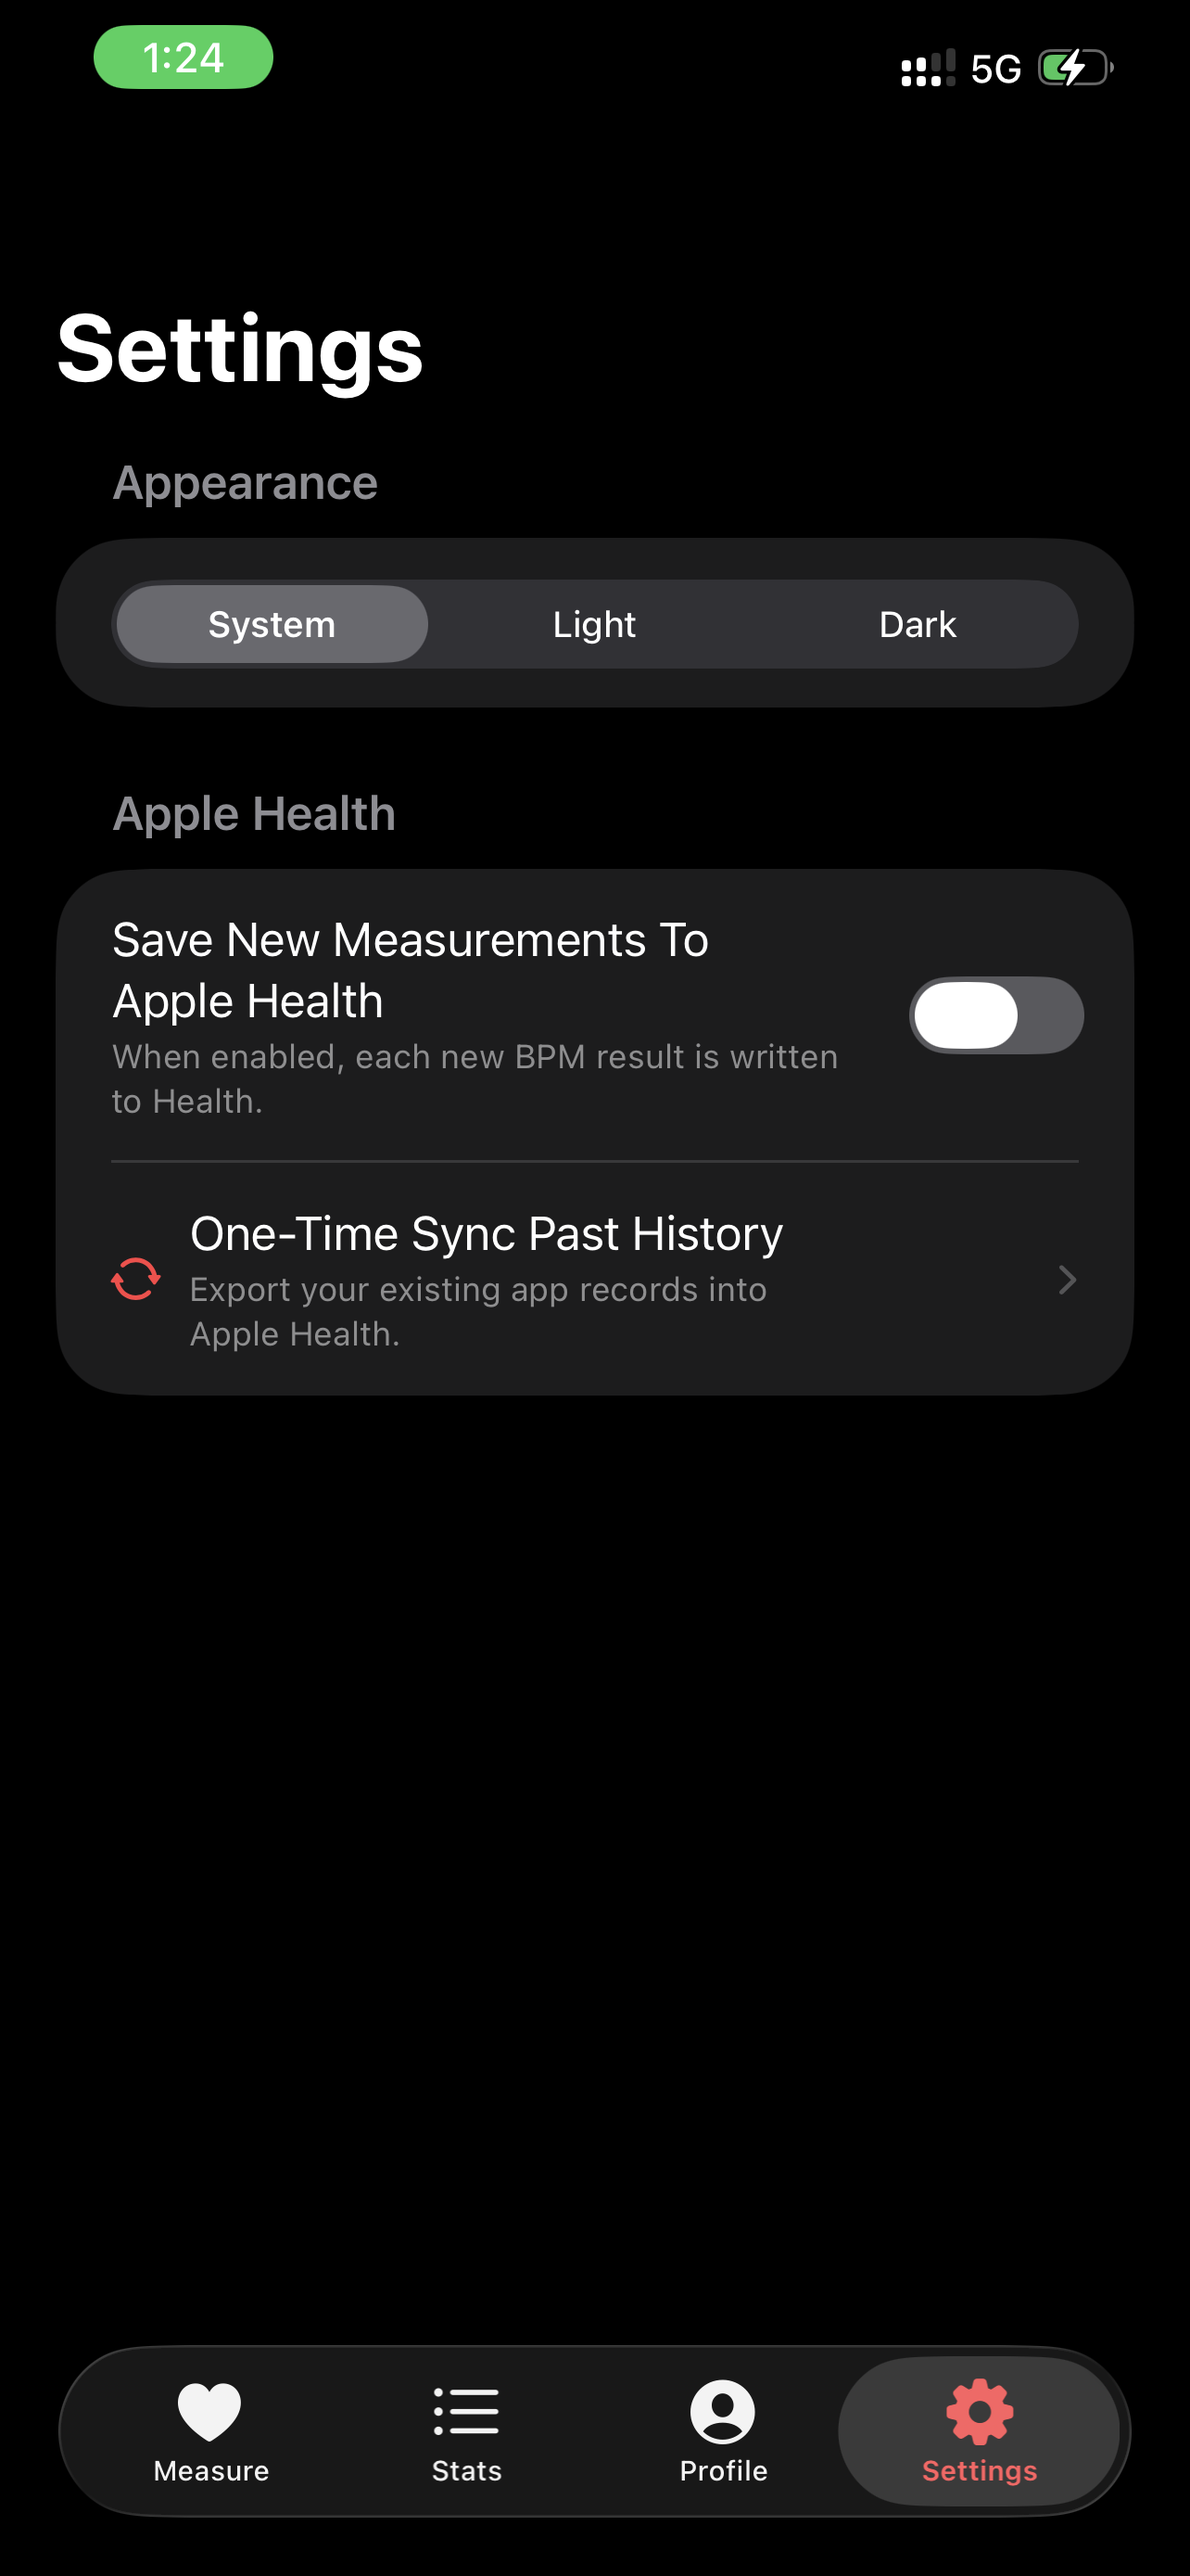
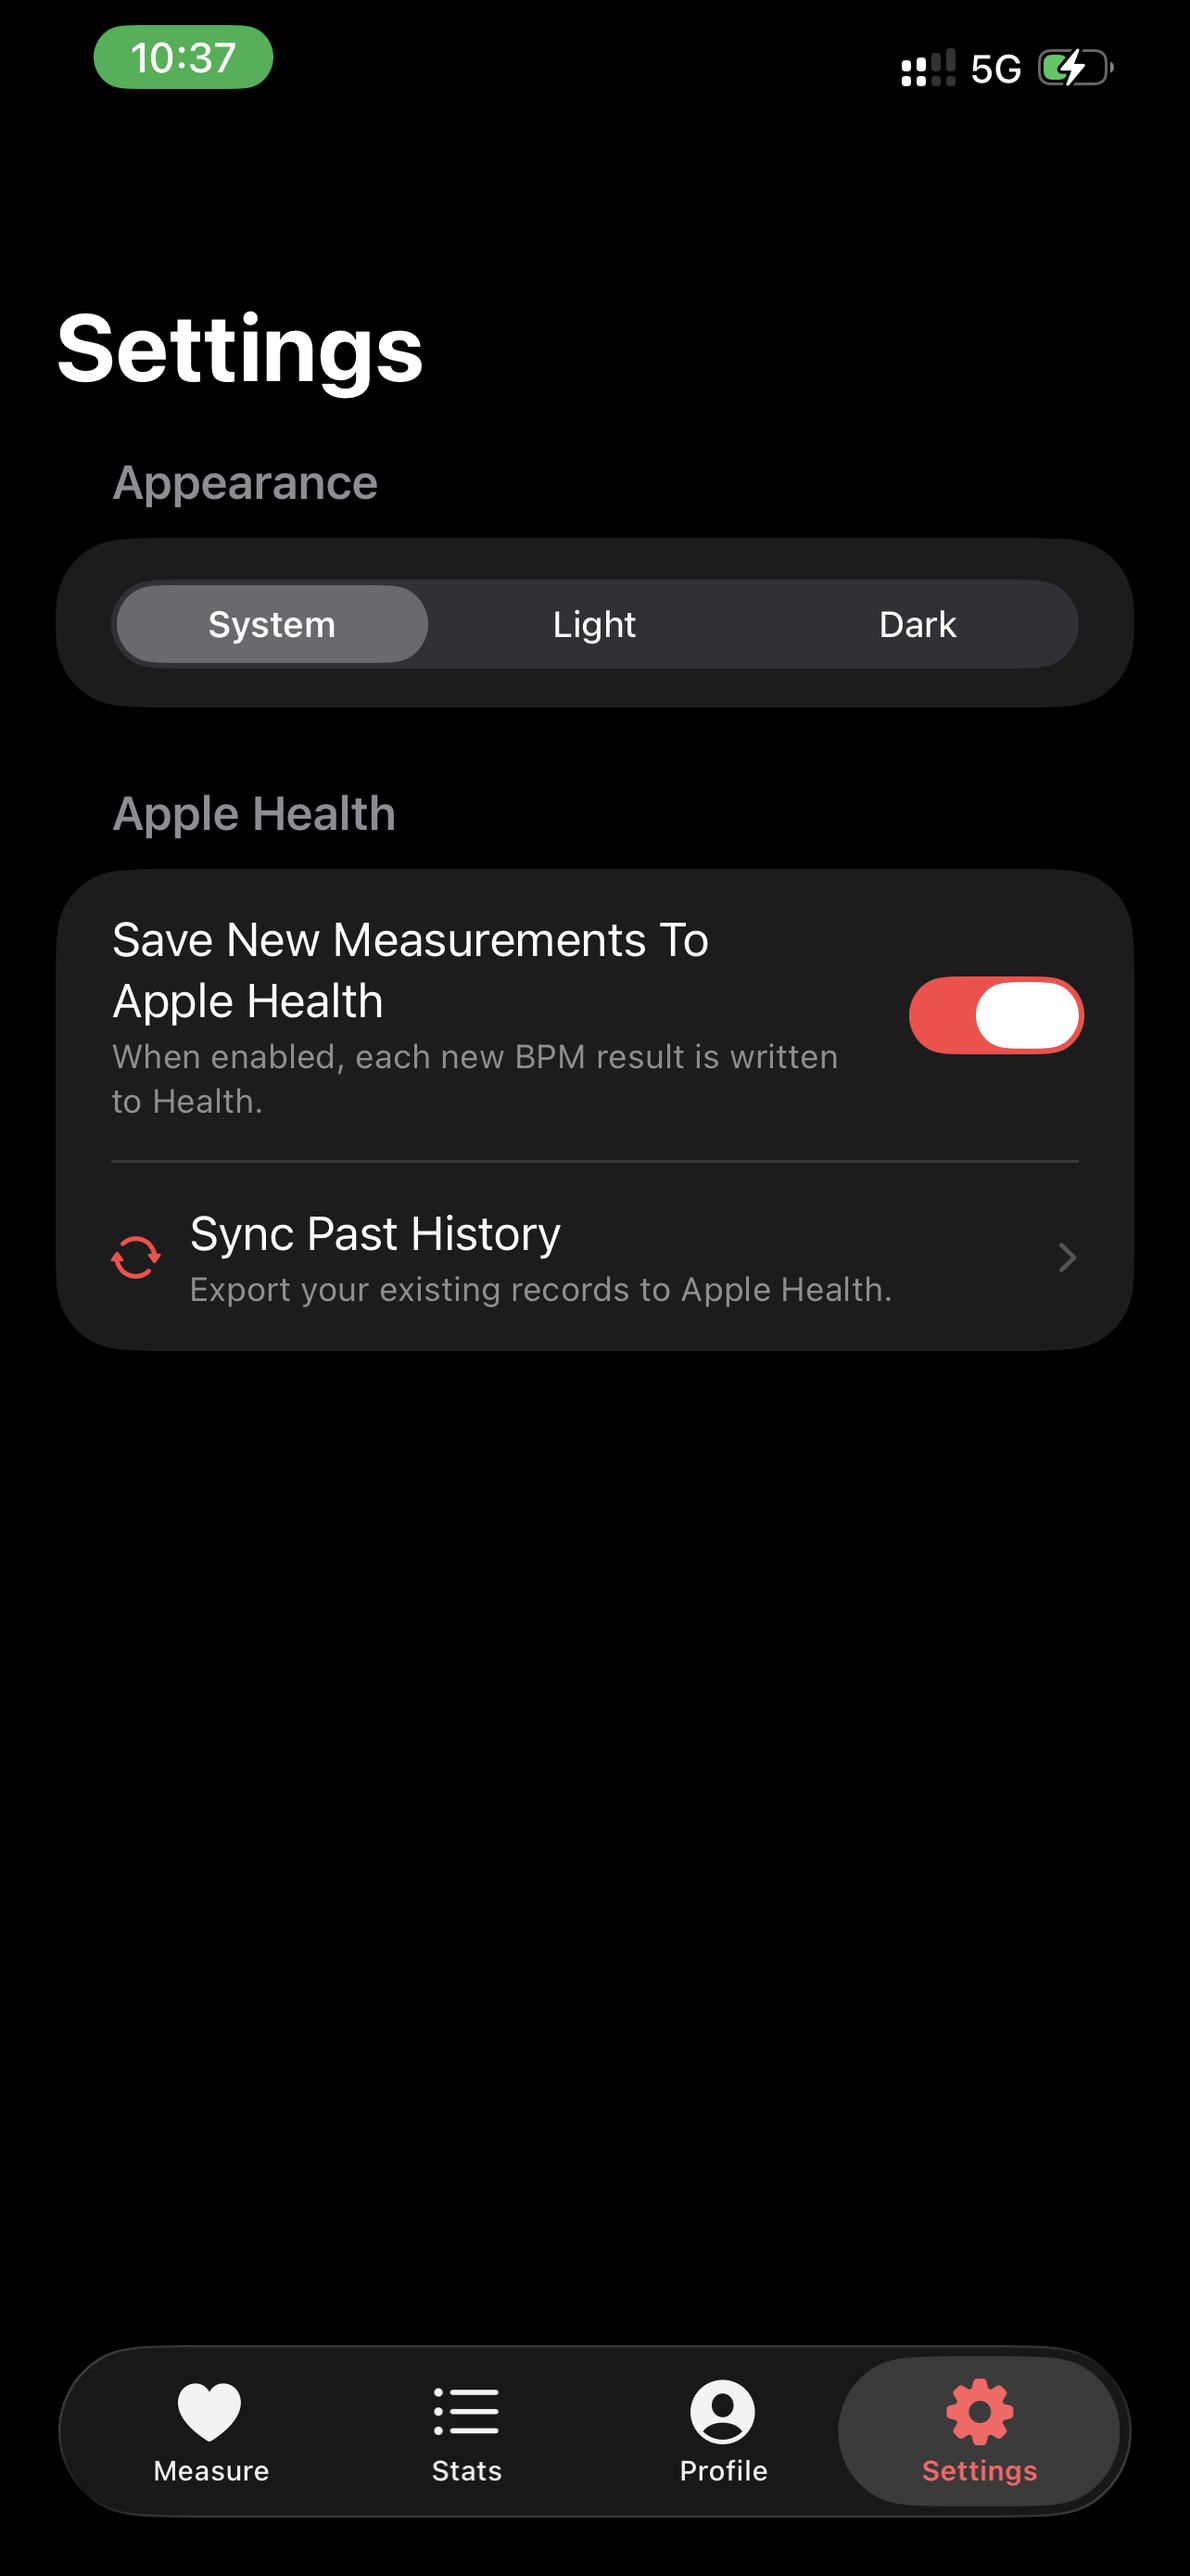
Improve measurement lifecycle and stats/settings UX

Changed region(s): [[0.0312, 0.4644, 0.9657, 0.5572], [0.7477, 0.3715, 0.9346, 0.4334], [0.0623, 0.0, 0.2492, 0.0619]]

diff --git a/Heart Rate Monitor/Views/MeasurementView.swift b/Heart Rate Monitor/Views/MeasurementView.swift
@@ -23,8 +23,11 @@ enum HeartRateMode: String, CaseIterable, Identifiable {
 struct MeasurementView: View {
     @ObservedObject var vm: HeartRateViewModel
     @Environment(\.colorScheme) private var colorScheme
+    @Environment(\.scenePhase) private var scenePhase
     @State private var category: MeasurementCategory = .heartRate
     @State private var heartRateMode: HeartRateMode = .camera
+    @StateObject private var autoVM = AutoHeartRateViewModel()
+    @StateObject private var stressVM = StressViewModel()
 
     var body: some View {
         NavigationStack {
@@ -45,10 +48,14 @@ struct MeasurementView: View {
                     case .heartRate:
                         VStack(spacing: 0) {
                             TabView(selection: $heartRateMode) {
-                                TapContentView(vm: vm)
+                                TapContentView(vm: vm) {
+                                    stopCameraMeasurementIfNeeded()
+                                }
                                     .tag(HeartRateMode.tap)
 
-                                CameraContentView(vm: vm)
+                                CameraContentView(vm: vm, autoVM: autoVM) {
+                                    stopTapMeasurementIfNeeded()
+                                }
                                     .tag(HeartRateMode.camera)
                             }
                             .tabViewStyle(.page(indexDisplayMode: .always))
@@ -59,14 +66,40 @@ struct MeasurementView: View {
                             .onChange(of: colorScheme) { _, _ in
                                 applyPageIndicatorColors()
                             }
+                            .onChange(of: heartRateMode) { _, newMode in
+                                switch newMode {
+                                case .tap:
+                                    stopCameraMeasurementIfNeeded()
+                                case .camera:
+                                    stopTapMeasurementIfNeeded()
+                                }
+                            }
                         }
                     case .stress:
-                        StressContentView(vm: vm)
+                        StressContentView(vm: vm, stressVM: stressVM) {
+                            stopHeartRateMeasurementsIfNeeded()
+                        }
                     }
                 }
                 .frame(maxHeight: .infinity)
             }
             .navigationTitle("Measure")
+            .onChange(of: category) { _, newCategory in
+                switch newCategory {
+                case .heartRate:
+                    stopStressMeasurementIfNeeded()
+                case .stress:
+                    stopHeartRateMeasurementsIfNeeded()
+                }
+            }
+            .onChange(of: scenePhase) { _, newPhase in
+                if newPhase != .active {
+                    stopAllMeasurementsIfNeeded()
+                }
+            }
+            .onDisappear {
+                stopAllMeasurementsIfNeeded()
+            }
         }
     }
 
@@ -79,6 +112,34 @@ struct MeasurementView: View {
             UIPageControl.appearance().pageIndicatorTintColor = UIColor.white.withAlphaComponent(0.35)
         }
     }
+
+    private func stopTapMeasurementIfNeeded() {
+        if vm.phase == .measuring {
+            vm.stopSession()
+        }
+    }
+
+    private func stopCameraMeasurementIfNeeded() {
+        if autoVM.phase == .measuring {
+            autoVM.stopSessionEarly()
+        }
+    }
+
+    private func stopStressMeasurementIfNeeded() {
+        if stressVM.phase == .measuring {
+            stressVM.stopSessionEarly()
+        }
+    }
+
+    private func stopHeartRateMeasurementsIfNeeded() {
+        stopTapMeasurementIfNeeded()
+        stopCameraMeasurementIfNeeded()
+    }
+
+    private func stopAllMeasurementsIfNeeded() {
+        stopHeartRateMeasurementsIfNeeded()
+        stopStressMeasurementIfNeeded()
+    }
 }
 
 // MARK: - Stress Measurement Content
@@ -86,7 +147,8 @@ struct MeasurementView: View {
 private struct StressContentView: View {
     @ObservedObject var vm: HeartRateViewModel
     @EnvironmentObject private var auth: AuthViewModel
-    @StateObject private var stressVM = StressViewModel()
+    @ObservedObject var stressVM: StressViewModel
+    let onStart: () -> Void
 
     private var totalForCurrentPhase: Int {
         switch stressVM.phase {
@@ -131,6 +193,7 @@ private struct StressContentView: View {
                             .padding(.horizontal)
 
                         Button {
+                            onStart()
                             stressVM.userAge = auth.age.flatMap { Int($0) }
                             stressVM.userGender = auth.gender
                             stressVM.userHeightCm = auth.heightCm.flatMap { Int($0) }
@@ -269,6 +332,7 @@ private struct StressContentView: View {
 
 private struct TapContentView: View {
     @ObservedObject var vm: HeartRateViewModel
+    let onStart: () -> Void
 
     private var totalForCurrentPhase: Int {
         switch vm.phase {
@@ -297,6 +361,7 @@ private struct TapContentView: View {
                         .padding(.horizontal)
 
                     Button {
+                        onStart()
                         vm.startSession()
                     } label: {
                         Label("Start Tap Session", systemImage: "play.fill")
@@ -382,7 +447,8 @@ private struct TapContentView: View {
 
 private struct CameraContentView: View {
     @ObservedObject var vm: HeartRateViewModel
-    @StateObject private var autoVM = AutoHeartRateViewModel()
+    @ObservedObject var autoVM: AutoHeartRateViewModel
+    let onStart: () -> Void
 
     private var totalForCurrentPhase: Int {
         switch autoVM.phase {
@@ -428,6 +494,7 @@ private struct CameraContentView: View {
                             .padding(.horizontal)
 
                         Button {
+                            onStart()
                             autoVM.startSession()
                         } label: {
                             Label("Start Camera Session", systemImage: "play.fill")

diff --git a/Heart Rate Monitor/Views/HistoryView.swift b/Heart Rate Monitor/Views/HistoryView.swift
@@ -215,25 +215,31 @@ struct HistoryView: View {
 
                 Group {
                     if vm.log.isEmpty {
-                        VStack(spacing: 8) {
-                            Text("No Records")
-                                .font(.title2)
-                                .foregroundColor(.secondary)
-                            Text("Records will appear here after you complete a measurement.")
-                                .font(.subheadline)
-                                .foregroundColor(.secondary)
-                                .multilineTextAlignment(.center)
-                                .padding(.horizontal)
+                        GeometryReader { proxy in
+                            ScrollView {
+                                VStack(spacing: 8) {
+                                    Text("No Records")
+                                        .font(.title2)
+                                        .foregroundColor(.secondary)
+                                    Text("Records will appear here after you complete a measurement.")
+                                        .font(.subheadline)
+                                        .foregroundColor(.secondary)
+                                        .multilineTextAlignment(.center)
+                                        .padding(.horizontal)
 
-                            Button("Load Demo Data") {
-                                seedSampleDataIfNeeded()
+                                    Button("Load Demo Data") {
+                                        seedSampleDataIfNeeded()
+                                    }
+                                    .buttonStyle(.borderedProminent)
+                                    .tint(.red)
+                                    .padding(.top, 8)
+                                }
+                                .frame(maxWidth: .infinity)
+                                .frame(minHeight: proxy.size.height, alignment: .center)
+                                .padding()
                             }
-                            .buttonStyle(.borderedProminent)
-                            .tint(.red)
-                            .padding(.top, 8)
+                            .scrollBounceBehavior(.always)
                         }
-                        .frame(maxWidth: .infinity, maxHeight: .infinity, alignment: .center)
-                        .padding()
                     } else {
                         List {
                         Section {
@@ -554,7 +560,7 @@ private extension HistoryView {
     }
 
     func heartRateBackgroundColor(for bpm: Int) -> Color {
-        heartRateBandColor(for: bpm).opacity(0.14)
+        Color(.secondarySystemGroupedBackground)
     }
 
     var measurementsHeaderTitle: String {

diff --git a/Heart Rate Monitor/Views/SettingsView.swift b/Heart Rate Monitor/Views/SettingsView.swift
@@ -25,6 +25,7 @@ struct SettingsView: View {
     @State private var isExportingHistory = false
     @State private var healthExportMessage = ""
     @State private var showHealthExportAlert = false
+    @State private var showExportConfirmAlert = false
 
     var body: some View {
         NavigationStack {
@@ -53,7 +54,11 @@ struct SettingsView: View {
                     .tint(.red)
 
                     Button {
-                        exportHistoryToAppleHealth()
+                        if vm.log.isEmpty {
+                            exportHistoryToAppleHealth()
+                        } else {
+                            showExportConfirmAlert = true
+                        }
                     } label: {
                         HStack(spacing: 10) {
                             if isExportingHistory {
@@ -66,9 +71,9 @@ struct SettingsView: View {
                             }
 
                             VStack(alignment: .leading, spacing: 3) {
-                                Text("One-Time Sync Past History")
+                                Text("Sync Past History")
                                     .foregroundColor(.primary)
-                                Text("Export your existing app records into Apple Health.")
+                                Text("Export your existing records to Apple Health.")
                                     .font(.caption)
                                     .foregroundStyle(.secondary)
                             }
@@ -88,6 +93,14 @@ struct SettingsView: View {
                 }
             }
             .navigationTitle("Settings")
+            .alert("Export History?", isPresented: $showExportConfirmAlert) {
+                Button("No", role: .cancel) {}
+                Button("Yes") {
+                    exportHistoryToAppleHealth()
+                }
+            } message: {
+                Text("This will export \(vm.log.count) records to Apple Health. Are you sure?")
+            }
             .alert("Apple Health Sync", isPresented: $showHealthExportAlert) {
                 Button("OK", role: .cancel) {}
             } message: {

diff --git a/Heart Rate Monitor/Views/ProfileView.swift b/Heart Rate Monitor/Views/ProfileView.swift
@@ -26,15 +26,23 @@ struct ProfileView: View {
                 Color(.systemGroupedBackground)
                     .ignoresSafeArea()
 
-                Group {
-                    if auth.isSignedIn {
-                        ScrollView {
-                            signedInContent
+                GeometryReader { proxy in
+                    ScrollView {
+                        Group {
+                            if auth.isSignedIn {
+                                signedInContent
+                            } else {
+                                signedOutContent
+                            }
                         }
-                        .scrollDismissesKeyboard(.interactively)
-                    } else {
-                        signedOutContent
+                        .frame(
+                            maxWidth: .infinity,
+                            minHeight: proxy.size.height,
+                            alignment: auth.isSignedIn ? .top : .center
+                        )
                     }
+                    .scrollDismissesKeyboard(.interactively)
+                    .scrollBounceBehavior(.always)
                 }
             }
             .id(auth.isSignedIn)
@@ -103,7 +111,7 @@ struct ProfileView: View {
             .buttonStyle(.plain)
             .padding(.horizontal, 40)
         }
-        .frame(maxWidth: .infinity, maxHeight: .infinity, alignment: .center)
+        .frame(maxWidth: .infinity, alignment: .center)
         .padding()
     }
 
